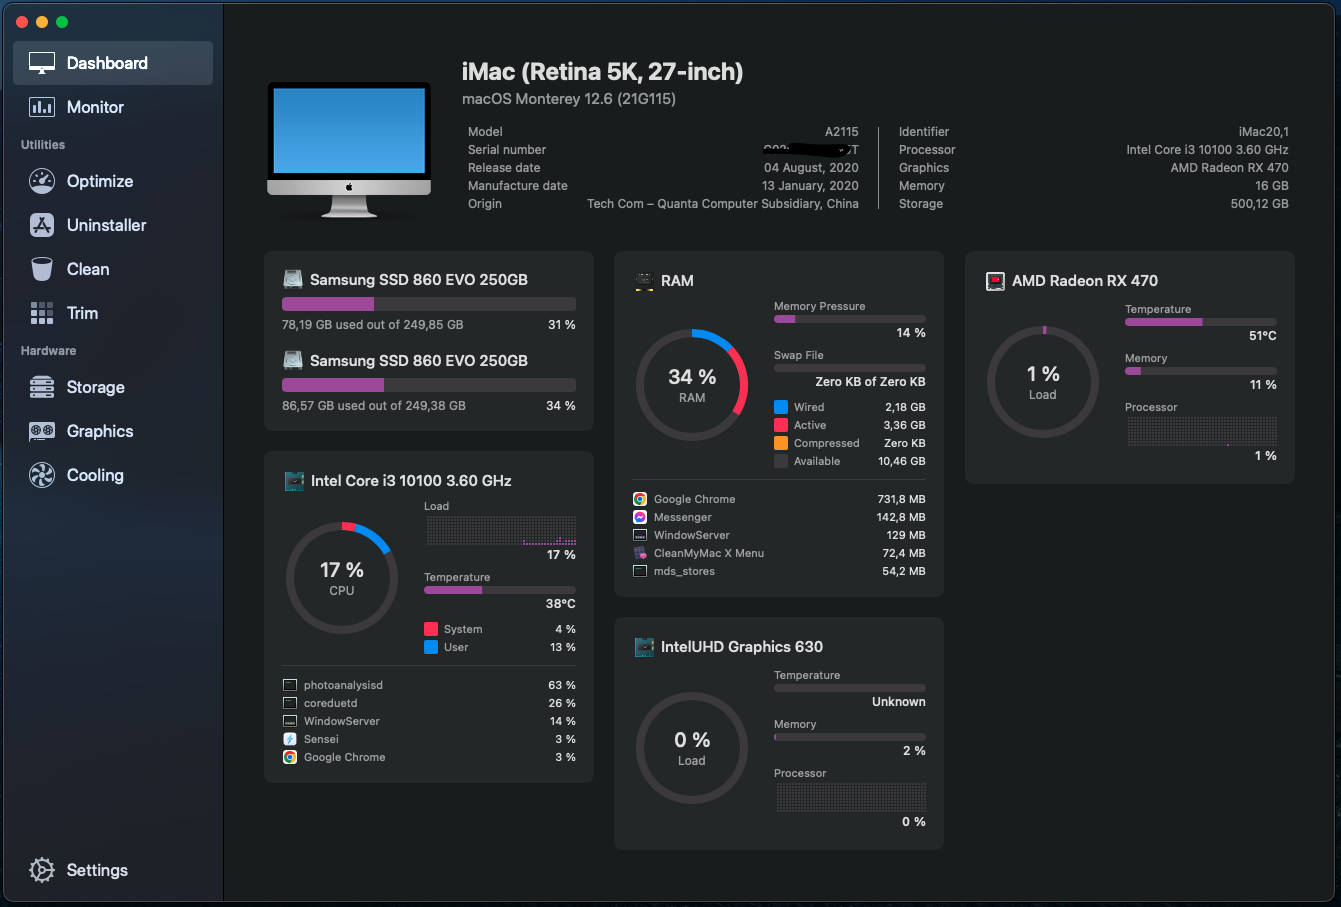
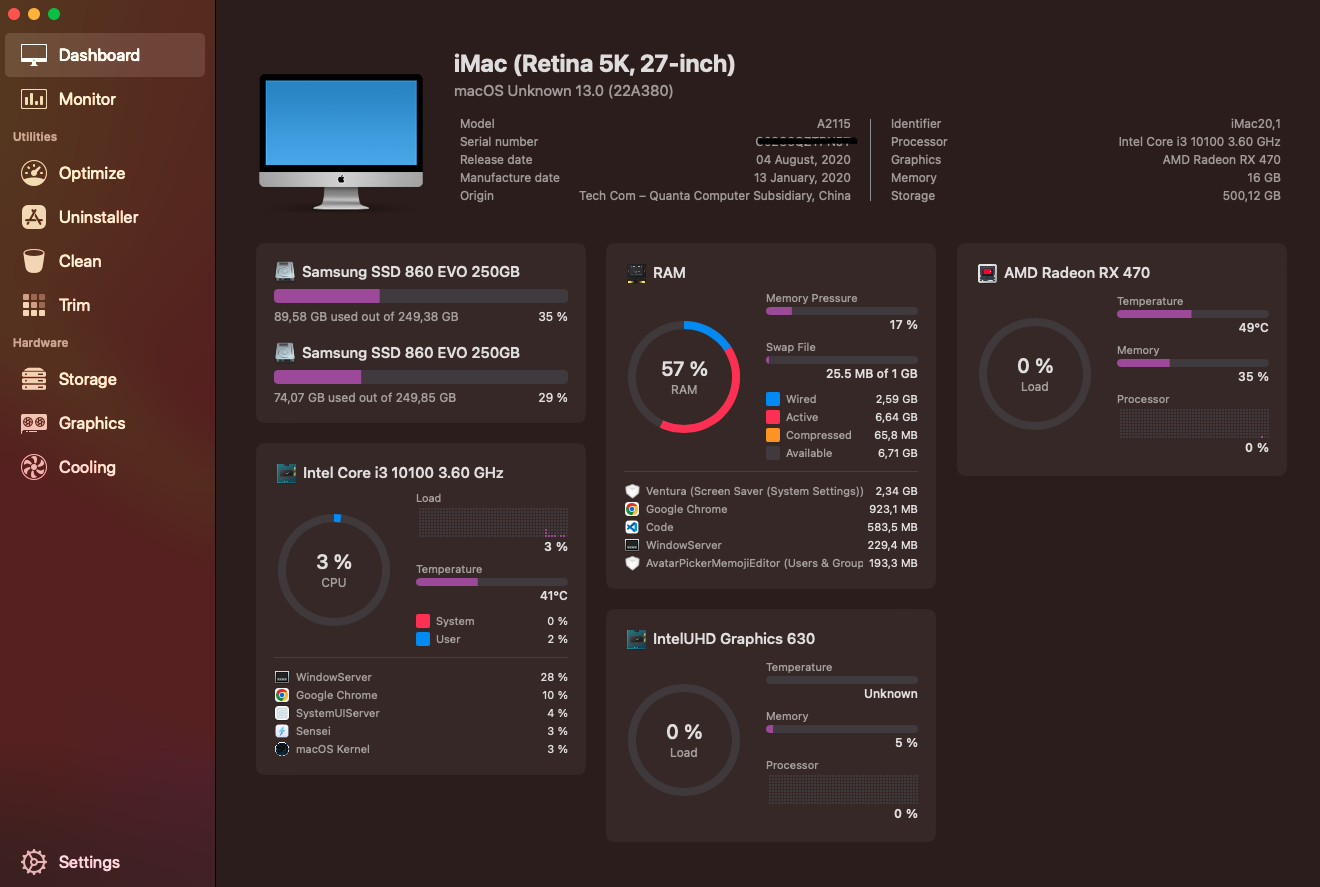
Update to ventura

diff --git a/README.md b/README.md
@@ -6,19 +6,19 @@
 
 ## Detail specs
 
-| Component   | Model                    |
-| ----------- | ------------------------ |
-| CPU         | Intel Core i3-10100      |
-| Motherboard | ASRock H510M-HVS R2.0    |
-| iGPU        | Intel UHD Graphics 630   |
-| dGPU        | Sapphire RX470 4GB       |
-| RAM         | 2 * 8GB DDR4 2666MHz     |
-| SSD         | 2 * Samsung 860 EVO 250GB|
-| WiFi        | None                     |
-| Audio       | Realtek ALC897           |
-| Ethernet    | Realtek RTL8111          |
-| Monitor     | Xiaomi Monitor 24 inches |
-| OS          | macOS Monterey 12.6      |
+| Component   | Model                      |
+| ----------- | -------------------------- |
+| CPU         | Intel Core i3-10100        |
+| Motherboard | ASRock H510M-HVS R2.0      |
+| iGPU        | Intel UHD Graphics 630     |
+| dGPU        | Sapphire RX470 4GB         |
+| RAM         | 2 \* 8GB DDR4 2666MHz      |
+| SSD         | 2 \* Samsung 860 EVO 250GB |
+| WiFi        | None                       |
+| Audio       | Realtek ALC897             |
+| Ethernet    | Realtek RTL8111            |
+| Monitor     | Xiaomi Monitor 24 inches   |
+| OS          | macOS Ventura 13           |
 
 ## What's working
 
@@ -35,30 +35,25 @@
 ## What's not working
 
 - [ ] WiFi & Bluetooth - (not have any WiFi/Bluetooth card)
-- [ ] Handoff (not tested)
-- [ ] Continuity (not tested)
+- [ ] Handoff (not have Wifi/Bluetooth for testing)
+- [ ] Continuity (not have Wifi/Bluetooth for testing)
 - [ ] AirDrop (not have Wifi/Bluetooth for testing)
-- [ ] Apple Watch Unlock (not tested)
 
 ## BIOS Settings
 
-- [x] Fast Boot
-- [x] VT-d
+- [ ] Fast Boot
+- [x] VT-d (optional)
 - [x] DVMT Pre-Allocated(iGPU Memory): 64M/Auto
-- [x] CFG Lock: Enabled (optional)
-- [x] Secure Boot: Disabled
-- [x] Intel SGX: Disabled
-- [x] Intel Platform Trust: Disabled
-- [x] Above 4G Decoding: Enabled
-- [x] Hyper Threading: Enabled
-- [x] Execute Disable Bit: Disabled
+- [x] CFG Lock (optional)
+- [ ] Secure Boot
+- [ ] Intel SGX
+- [ ] Intel Platform Trust
+- [x] Above 4G Decoding
+- [x] Hyper Threading
 - [x] SATA Mode: AHCI
-- [x] LAN PXE Boot Option ROM: Disabled
 - [x] Storage Boot Option Control: UEFI
 - [x] USB Configuration: XHCI Hand-off
-- [x] Fast Boot: Disabled
-- [x] Windows 10 Features: Other OS
-- [x] Intel Virtualization Technology: Enabled
+- [x] Intel Virtualization Technology
 
 ## OpenCore Settings
 
@@ -69,7 +64,7 @@
 ## Note
 
 - `OpenCore` version: `0.8.5`
-- This shared EFI was tested with `MacOS Monterey 12.6`, made with Release version of `OpenCore 0.8.5`
+- This shared EFI was tested with both `Ventura 13` and `Monterey 12.6`, made with Release version of `OpenCore 0.8.5`
 
 ## Credits
 
